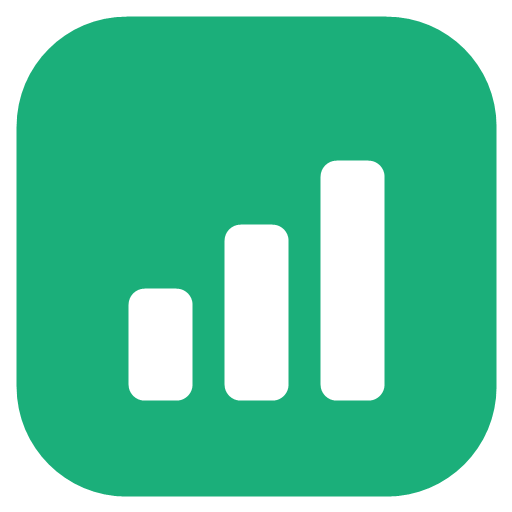
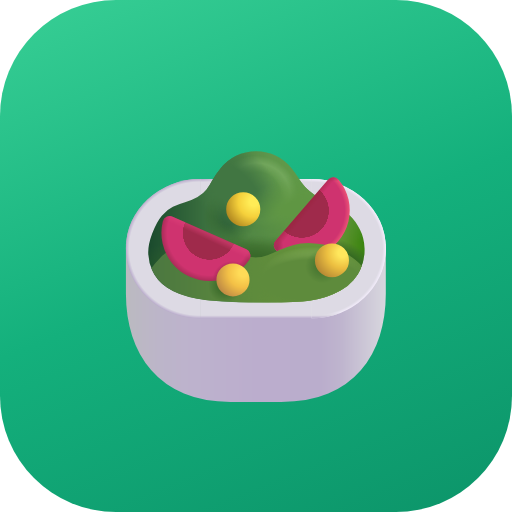
v2: 钠摄入模块 + 新图标(沙拉碗)
- 新增钠量尺(上限2000mg,可改)、快捷记录(盐1g/酱油一勺/外食一餐)、自定义mg
- 今日进度卡增加钠条目;设置页增加钠上限
- 图标换为渐变+沙拉碗,补全出血maskable版本
- SW缓存升至jz-v2

diff --git a/sw.js b/sw.js
@@ -1,5 +1,5 @@
-const CACHE = 'jz-v1';
-const ASSETS = ['./', './index.html', './manifest.webmanifest', './icon-192.png', './icon-512.png'];
+const CACHE = 'jz-v2';
+const ASSETS = ['./', './index.html', './manifest.webmanifest', './icon-192.png', './icon-512.png', './icon-512m.png'];
 
 self.addEventListener('install', e => {
   e.waitUntil(
